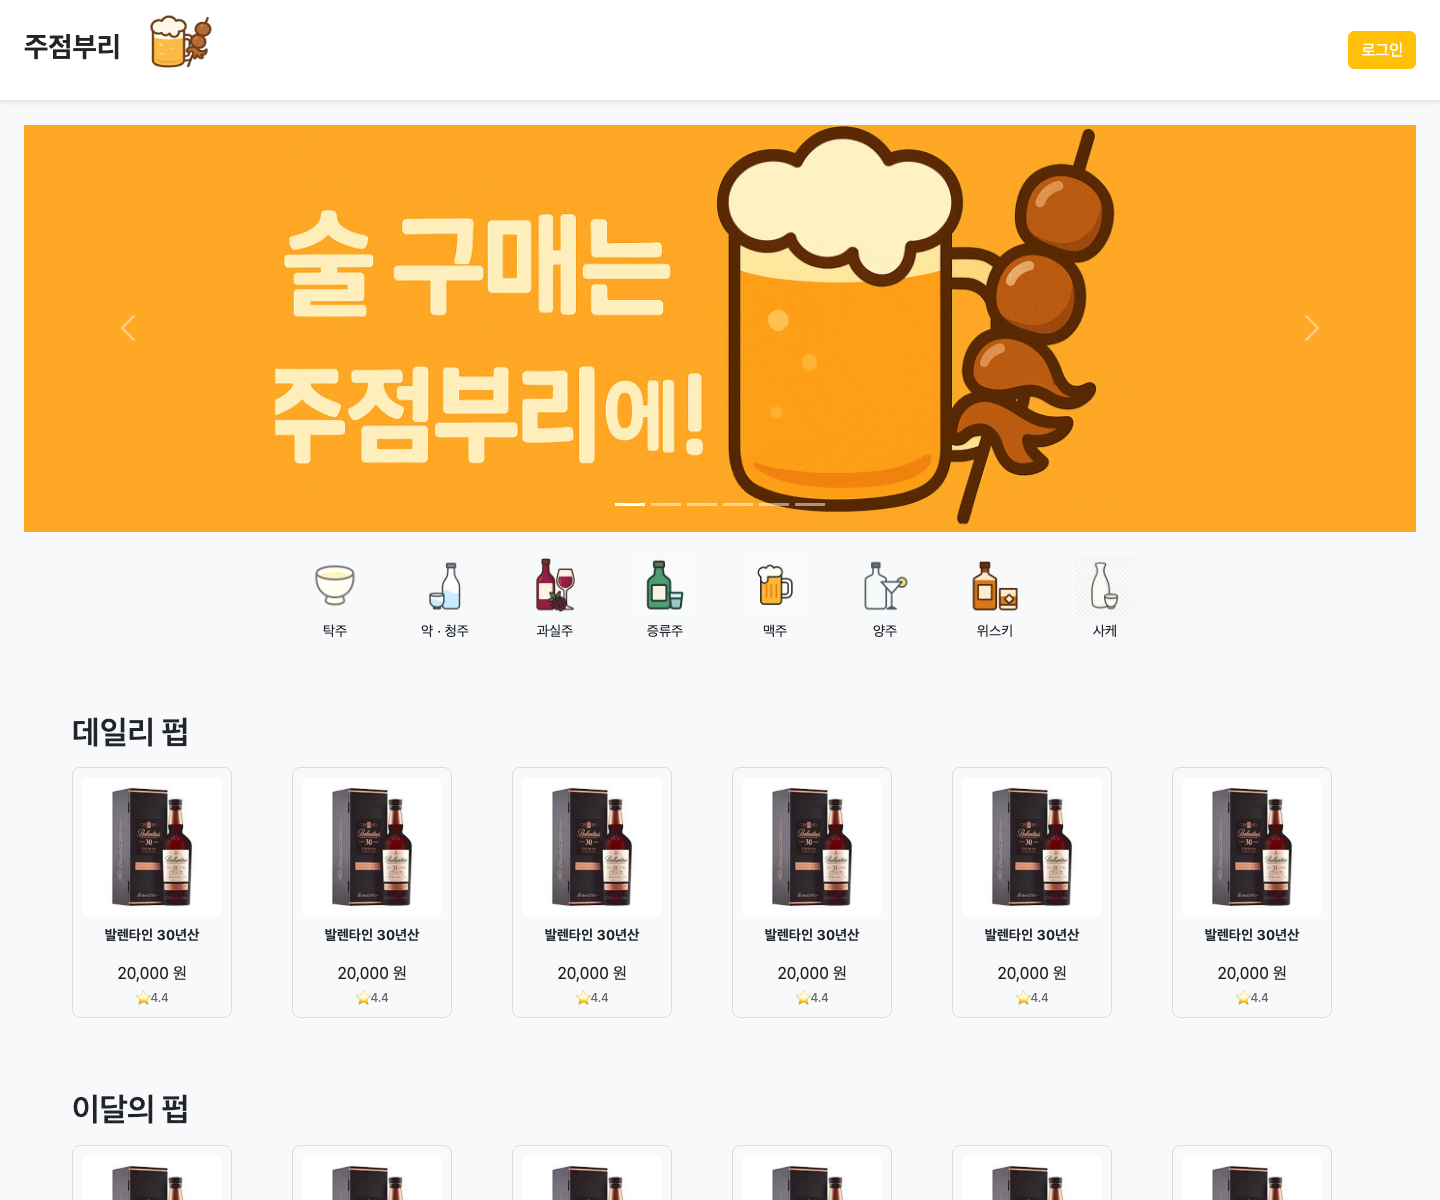
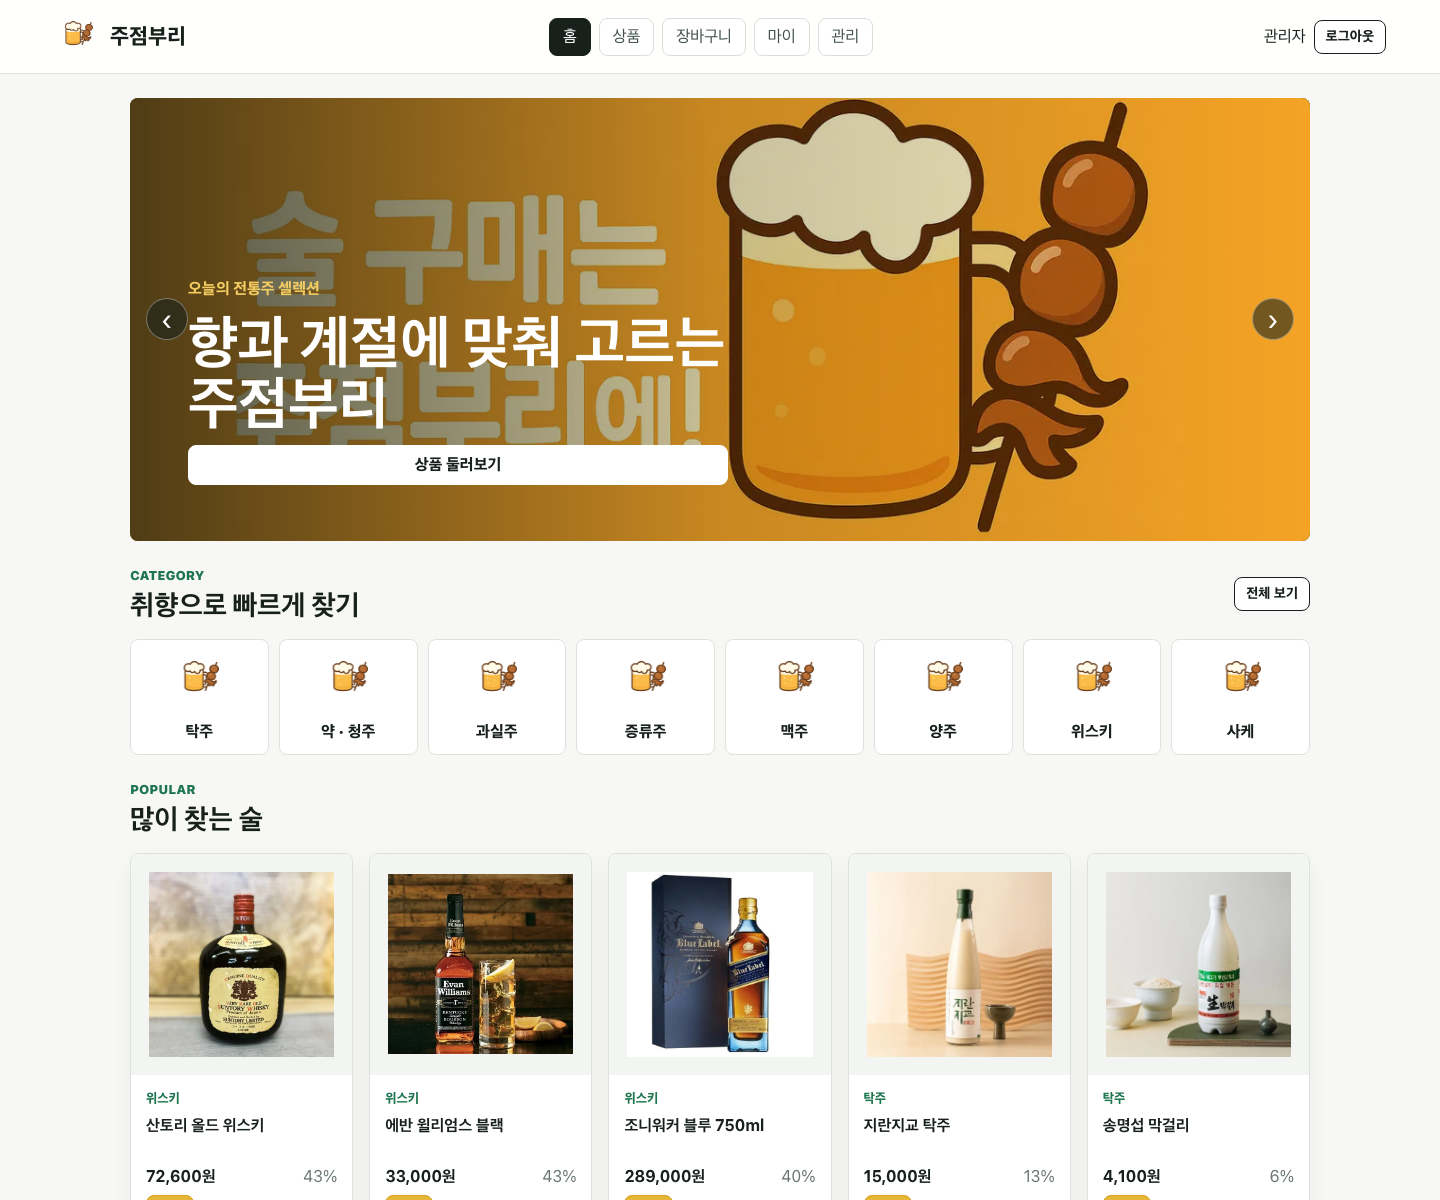
docs: update pubburi screenshots

diff --git a/src/data/projects.ts b/src/data/projects.ts
@@ -1361,6 +1361,8 @@ public int makeOrder(Order order, List<OrderDetail> details) {
     ],
     screenshots: [
       'screenshot/pubburi-web.png',
+      'screenshot/pubburi-products.png',
+      'screenshot/pubburi-admin.png',
     ],
     hasBottomScreenshot: false,
   },